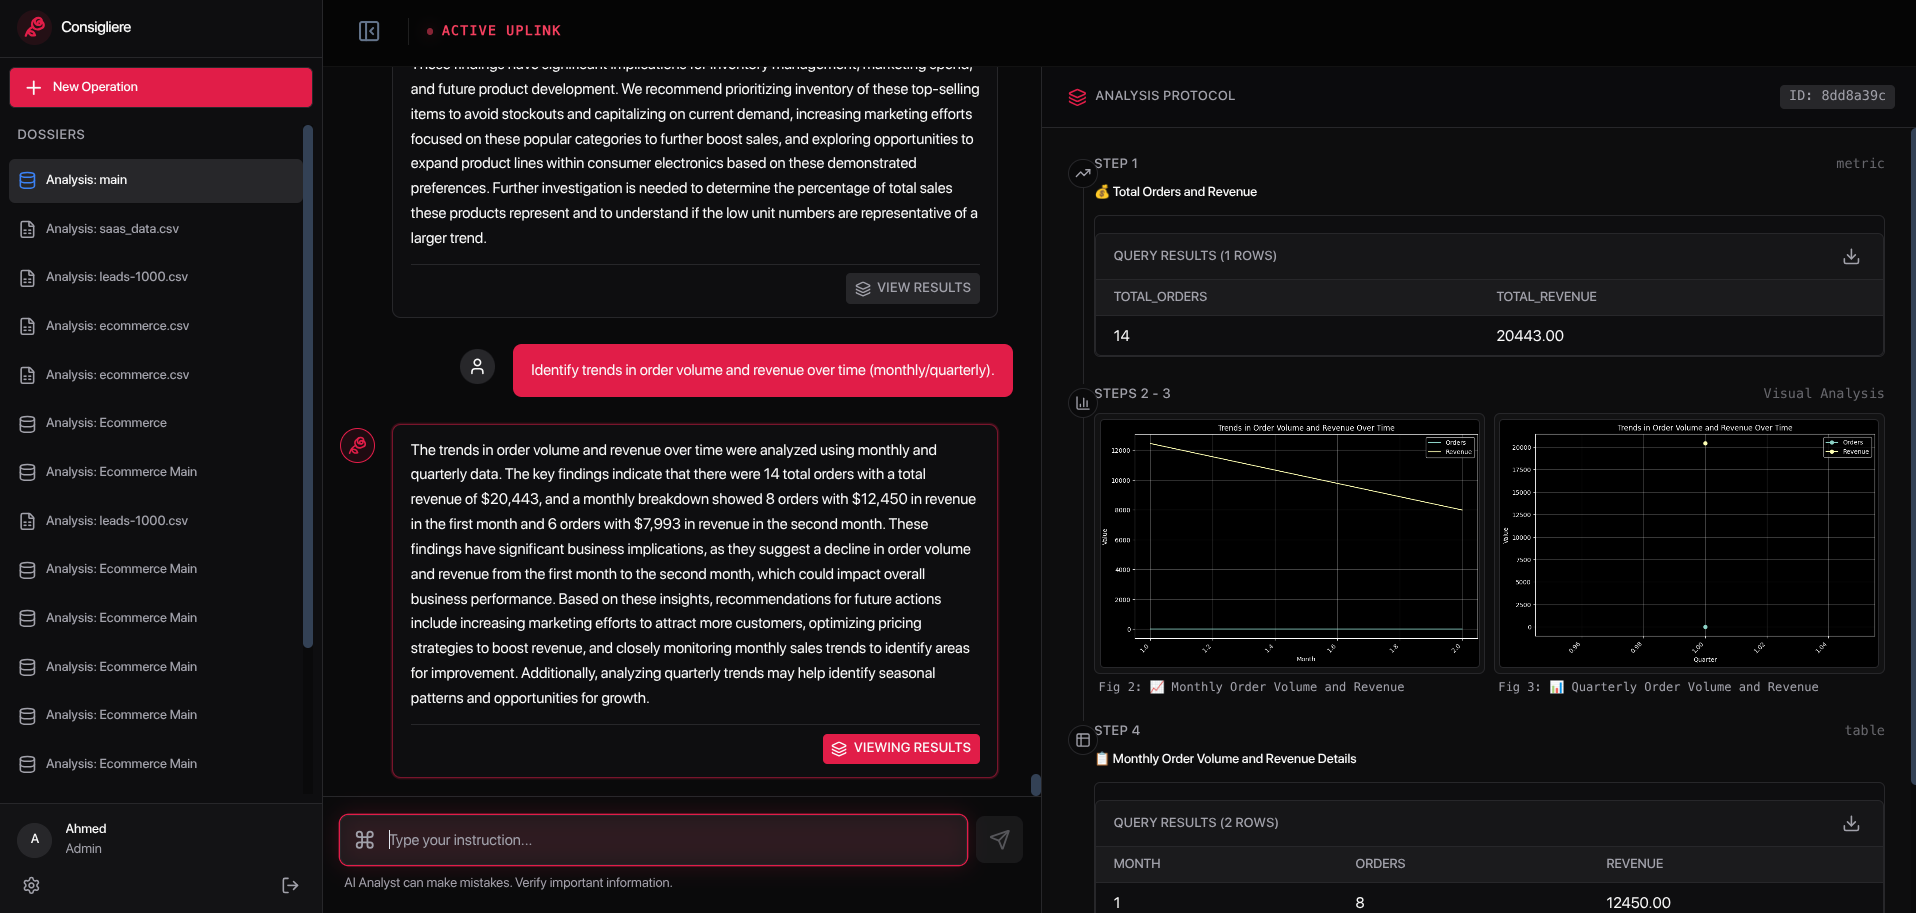
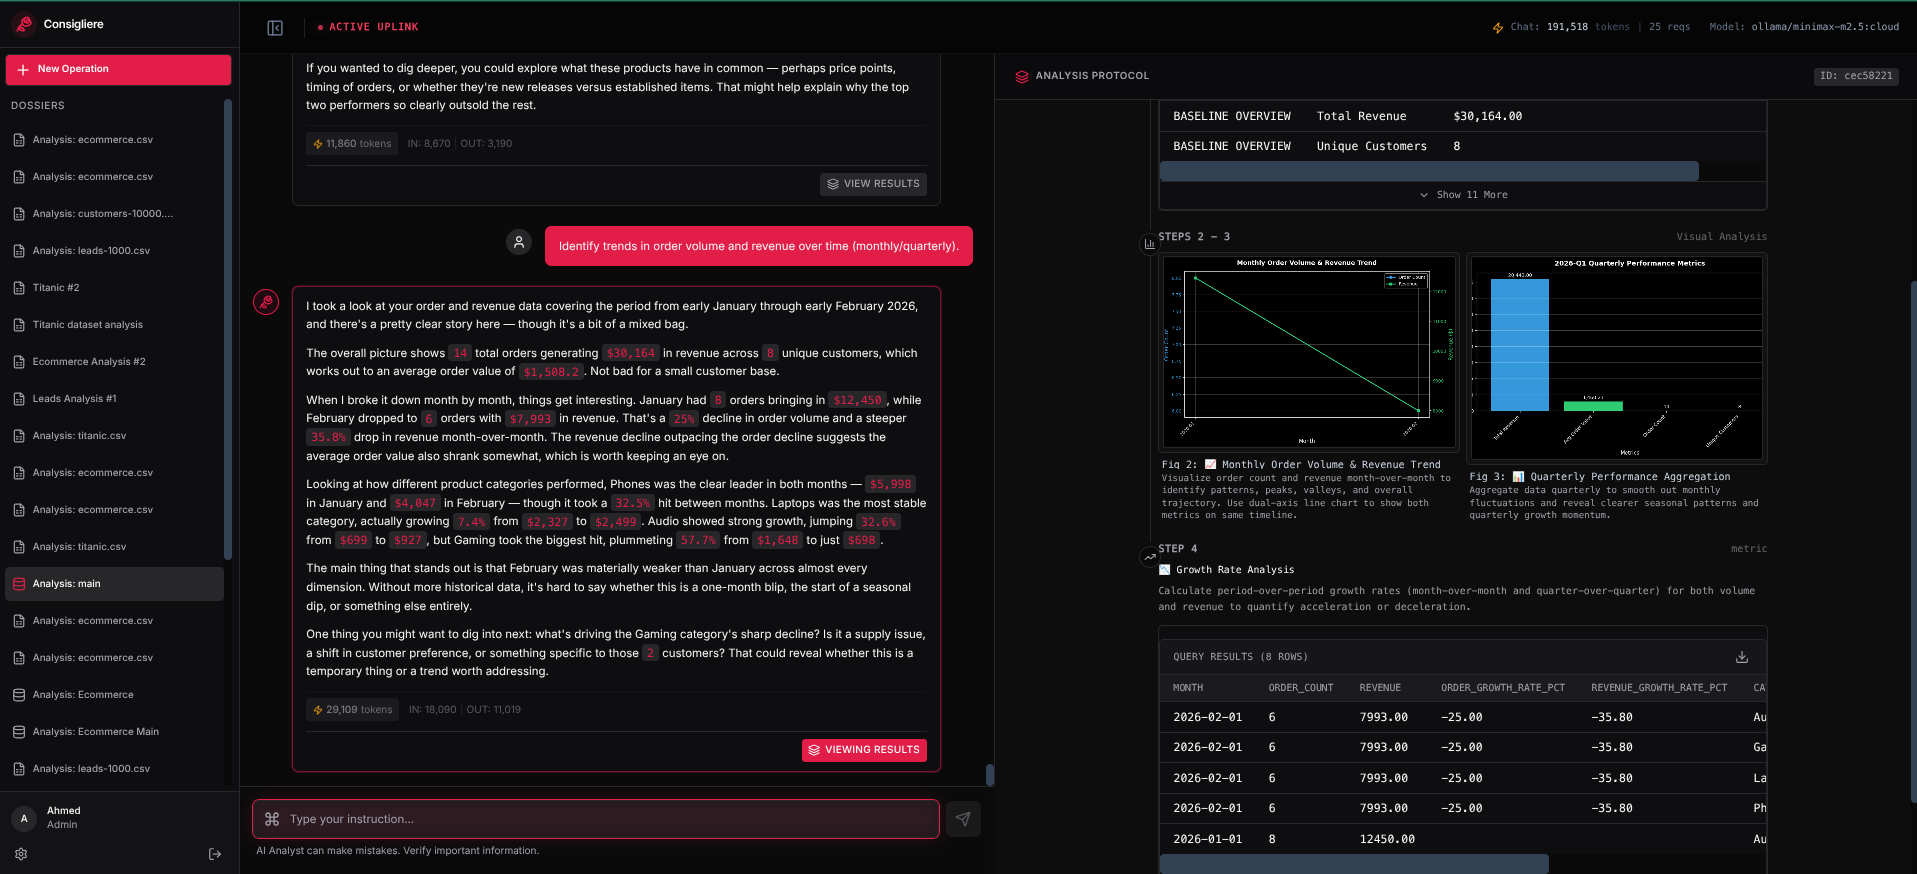
update: enhance dossier generation

diff --git a/frontend/src/components/DossierView.tsx b/frontend/src/components/DossierView.tsx
@@ -1,5 +1,5 @@
 import React from 'react';
-import { Cpu, ArrowRight, Target, ShieldAlert, FileText } from 'lucide-react';
+import { ArrowRight, Target, ShieldAlert, FileText, AlertTriangle } from 'lucide-react';
 import ReactMarkdown from 'react-markdown';
 import { Dossier } from '../types';
 
@@ -54,9 +54,6 @@ export const DossierView: React.FC<DossierViewProps> = ({ dossier, title, onActi
                 li: ({ node, ...props }) => <li className="leading-7" {...props} />,
                 blockquote: ({ node, ...props }) => <blockquote className="mt-6 border-l-2 pl-6 italic text-muted-foreground" {...props} />,
                 code: ({ node, className, ...props }) => {
-                  // A simpler check for inline vs block code could be used if needed, 
-                  // but typically ReactMarkdown handles this via the presence of `children` usually being a string.
-                  // For simplicity in this shadcn port, we apply a generic style.
                   return <code className="relative rounded bg-muted px-[0.3rem] py-[0.2rem] font-mono text-sm font-semibold" {...props} />
                 },
                 pre: ({ node, ...props }) => <pre className="mb-4 mt-6 overflow-x-auto rounded-lg border bg-muted p-4" {...props} />,
@@ -83,6 +80,26 @@ export const DossierView: React.FC<DossierViewProps> = ({ dossier, title, onActi
                   </span>
                 ))}
               </div>
+            </div>
+          )}
+
+          {/* Data Alerts */}
+          {dossier.data_alerts && dossier.data_alerts.length > 0 && (
+            <div className="mt-6 pt-6 border-t flex flex-col gap-3">
+              <span className="text-xs font-medium text-amber-500 flex items-center gap-2 uppercase tracking-wider">
+                <AlertTriangle size={14} className="text-amber-500" /> Data Alerts
+              </span>
+              <ul className="flex flex-col gap-2">
+                {dossier.data_alerts.map((alert, i) => (
+                  <li
+                    key={i}
+                    className="flex items-start gap-2 rounded-md border border-amber-500/20 bg-amber-500/5 px-3 py-2 text-xs text-amber-400"
+                  >
+                    <AlertTriangle size={12} className="mt-0.5 shrink-0 text-amber-500" />
+                    <span>{alert}</span>
+                  </li>
+                ))}
+              </ul>
             </div>
           )}
         </div>

diff --git a/frontend/src/types/index.ts b/frontend/src/types/index.ts
@@ -41,6 +41,7 @@ export interface ChatType {
 export interface Dossier {
     briefing: string;
     key_entities: string[];
+    data_alerts?: string[];
     recommended_actions: string[];
 }
 

diff --git a/app/services/sql/agent.py b/app/services/sql/agent.py
@@ -896,19 +896,67 @@ class SQLAgent(BaseAgent):
         )
 
     def _generate_stats(self) -> str:
-        """Generate database statistics."""
+        """Generate enriched database statistics: per-table row counts and column overview."""
         try:
             inspector = inspect(self.engine)
             tables = inspector.get_table_names()
-            stats = f"Database contains {len(tables)} tables"
-            return stats
+            lines = [f"Total tables: {len(tables)}"]
+            with self.engine.connect() as conn:
+                for table in tables[:10]:  # cap at 10 tables to avoid timeout
+                    try:
+                        result = conn.execute(text(f'SELECT COUNT(*) FROM "{table}"'))
+                        row_count = result.scalar()
+                    except Exception:
+                        row_count = "unknown"
+                    cols = inspector.get_columns(table)
+                    col_names = [c["name"] for c in cols[:8]]  # first 8 columns
+                    col_types = [str(c["type"]) for c in cols[:8]]
+                    col_summary = ", ".join(
+                        f"{n} ({t})" for n, t in zip(col_names, col_types)
+                    )
+                    lines.append(
+                        f"Table '{table}': {row_count} rows | Columns: {col_summary}"
+                    )
+                    # FK relationships
+                    fks = inspector.get_foreign_keys(table)
+                    for fk in fks:
+                        ref_table = fk.get("referred_table", "?")
+                        local_cols = ", ".join(fk.get("constrained_columns", []))
+                        lines.append(
+                            f"  → '{table}'.{local_cols} references '{ref_table}'"
+                        )
+            return "\n".join(lines)
         except Exception as e:
             logger.error(f"Stats generation error: {e}")
             return "No stats available"
 
     def _generate_preview(self) -> str:
-        """Generate database preview."""
-        return "No Preview Available"
+        """Generate sample rows from up to 3 tables."""
+        try:
+            inspector = inspect(self.engine)
+            tables = inspector.get_table_names()[:3]
+            preview_parts = []
+            with self.engine.connect() as conn:
+                for table in tables:
+                    try:
+                        result = conn.execute(text(f'SELECT * FROM "{table}" LIMIT 3'))
+                        rows = result.fetchall()
+                        col_names = list(result.keys())
+                        if rows:
+                            rows_str = "\n".join(
+                                str(dict(zip(col_names, row))) for row in rows
+                            )
+                            preview_parts.append(
+                                f"Table '{table}' sample rows:\n{rows_str}"
+                            )
+                        else:
+                            preview_parts.append(f"Table '{table}': empty")
+                    except Exception as e:
+                        preview_parts.append(f"Table '{table}': preview unavailable ({e})")
+            return "\n\n".join(preview_parts) if preview_parts else "No preview available"
+        except Exception as e:
+            logger.error(f"Preview generation error: {e}")
+            return "No preview available"
 
     def generate_dossier(self):
         """Generate database dossier (intelligence report)."""
@@ -916,7 +964,7 @@ class SQLAgent(BaseAgent):
         try:
             messages = [
                 {
-                    "role": "system",
+                    "role": "user",
                     "content": DOSSIER_PROMPT.format(
                         schema=self.schema,
                         stats=self._generate_stats(),
@@ -925,9 +973,16 @@ class SQLAgent(BaseAgent):
                     ),
                 }
             ]
-            response = self._call_llm_with_usage(messages, temperature=0.0)
+            response = self._call_llm_with_usage(messages, temperature=0.4, timeout=60)
             clean_response = response.replace("```json", "").replace("```", "").strip()
-            return json_repair.loads(clean_response)
+            parsed = json_repair.loads(clean_response)
+            if isinstance(parsed, dict):
+                required_fields = ["briefing", "key_entities", "data_alerts", "recommended_actions"]
+                for field in required_fields:
+                    if field not in parsed:
+                        parsed[field] = [] if field != "briefing" else "No briefing generated."
+                return parsed
+            raise ValueError("Dossier output was not a dictionary")
         except Exception as e:
             logger.error(f"Dossier generation error: {str(e)}")
             raise Exception(f"Dossier generation failed: {str(e)}")

diff --git a/app/core/prompts.py b/app/core/prompts.py
@@ -11,6 +11,7 @@ RULES:
 2. Never invent product names, categories, percentages, or trends
 3. Never use placeholders like "Product 1", "Category A"
 4. If data doesn't support a conclusion, don't state it
+5. Wrap all numbers, metric values, and proper names/identifiers in backtick code spans — e.g. `42`, `$1,200`, `Product A`, `Q3 2024`
 
 Write naturally - like you're explaining to a colleague. No rigid sections or bullet lists. Just tell them what you found in a flowing narrative.
 
@@ -36,6 +37,7 @@ RULES:
 2. Never invent product names, categories, percentages, or trends
 3. Never use placeholders like "Product 1", "Category A"
 4. If data doesn't support something, don't state it
+5. Wrap all numbers, metric values, and proper names/identifiers in backtick code spans — e.g. `42`, `$1,200`, `Product A`, `Q3 2024`
 
 Write naturally - like you're explaining to a colleague what you found. No rigid sections or bullet lists. Just tell them what you discovered in a flowing narrative. 
 
@@ -51,17 +53,26 @@ If zero_leaks_mode is true:
 """
 
 DOSSIER_PROMPT = """
-Generate executive intelligence report for new database.
+You are a senior data analyst handing off a newly received dataset to a colleague.
+Write a genuine intelligence briefing — based ONLY on the schema, stats, and preview provided.
+Do NOT use placeholder text like "[X] tables" or "[Industry]". Speak from the actual data.
 
+Source Type: {source_type}
 Schema: {schema}
 Stats: {stats}
 Preview: {preview}
-Type: {source_type}
 
-Return JSON:
+Return STRICTLY valid JSON with these fields:
+
 {{
-  "briefing": "## 1. Executive Summary\\n* **Scope:** [X] tables, [Y] records\\n* **Domain:** [Industry]\\n* **Value:** [Why valuable]\\n\\n## 2. Intelligence\\n* **Model:** Tracks [Process]\\n* **Entities:** [Table1, Table2, Table3]\\n* **Relationships:** [FK descriptions]\\n\\n## 3. Assessment\\n* **Strengths:** [Data quality, structure]\\n* **Limitations:** [Missing data, concerns]\\n* **Opportunities:** [Analysis types]",
-  "key_entities": ["Table1", "Table2", "..."],
-  "recommended_actions": ["Q1", "Q2", "Q3"]
+  "briefing": "2–4 paragraph markdown narrative. Describe: (1) what this data tracks and its domain, (2) key patterns or relationships visible from the stats/preview, (3) data quality observations. Use `backticks` for column names, table names, and values. Be specific — reference actual column names and numbers.",
+  "key_entities": ["The most important table/sheet/column names the user should know about — max 6"],
+  "data_alerts": ["Any quality issues, anomalies, or warnings: high nulls, suspicious columns, very low row counts, duplicate-looking data, etc. Empty list if no issues found."],
+  "recommended_actions": ["3–5 specific, opinionated analytical questions the user could ask RIGHT NOW, based on what you see in the schema and stats. Make them concrete and data-specific."]
 }}
+
+Example of a good recommended_action: "Which product category has the highest return rate?"
+Example of a bad recommended_action: "Analyze the data"
+
+Return JSON only. No markdown wrapper. No explanation outside the JSON.
 """

diff --git a/app/services/excel/agent.py b/app/services/excel/agent.py
@@ -636,6 +636,24 @@ class ExcelDataAgent(BaseAgent):
         stats.append(f"Total Records: {len(self.df):,}")
         stats.append(f"Total Columns: {len(self.df.columns)}")
 
+        # Duplicate rows
+        try:
+            dup_count = self.df.duplicated().sum()
+            if dup_count > 0:
+                stats.append(f"Duplicate Rows: {dup_count:,} ({dup_count / len(self.df) * 100:.1f}%)")
+        except:
+            pass
+
+        # Columns with nulls — report top 5 offenders
+        try:
+            null_counts = self.df.isnull().sum()
+            null_cols = null_counts[null_counts > 0].sort_values(ascending=False).head(5)
+            for col, count in null_cols.items():
+                ratio = count / len(self.df) * 100
+                stats.append(f"Nulls in '{col}': {count:,} ({ratio:.1f}%)")
+        except:
+            pass
+
         for col in self.df.select_dtypes(include=["datetime", "datetimetz"]).columns:
             try:
                 start = self.df[col].min()
@@ -702,7 +720,7 @@ class ExcelDataAgent(BaseAgent):
             parsed_json = json_repair.loads(response_text)
 
             if isinstance(parsed_json, dict):
-                required_fields = ["briefing", "key_entities", "recommended_actions"]
+                required_fields = ["briefing", "key_entities", "data_alerts", "recommended_actions"]
                 for field in required_fields:
                     if field not in parsed_json:
                         parsed_json[field] = [] if field != "briefing" else "Unknown"
@@ -715,6 +733,7 @@ class ExcelDataAgent(BaseAgent):
             return {
                 "briefing": f"I analyzed your data ({len(self.df):,} rows).",
                 "key_entities": list(self.df.columns[:5]),
+                "data_alerts": [],
                 "recommended_actions": ["Show me the data", "Count rows"],
             }
 

diff --git a/app/services/sql/prompts.py b/app/services/sql/prompts.py
@@ -408,15 +408,8 @@ DATA_ACTION RULES
 - Include baseline.
 - Include comparison or distribution logic.
 - Include share-of-total or growth when relevant.
-- Include at least ONE chart step (type: "chart") in most plans
-- Choose chart_type based on: bar (comparison), pie (distribution), line (trend), scatter (correlation)
-- Final step MUST prioritize insights and suggest actions.
-
---------------------------------------------------
-
-- Include baseline.
-- Include comparison or distribution logic.
-- Include share-of-total or growth when relevant.
-- Final step MUST prioritize insights and suggest actions.
+- Include at least ONE chart step (type: "chart") in most plans.
+- Choose chart_type based on: bar (comparison), pie (distribution), line (trend), scatter (correlation).
+- Final step MUST be type: "summary" — prioritize findings, interpret what they mean, and suggest clear next actions.
 
 """
